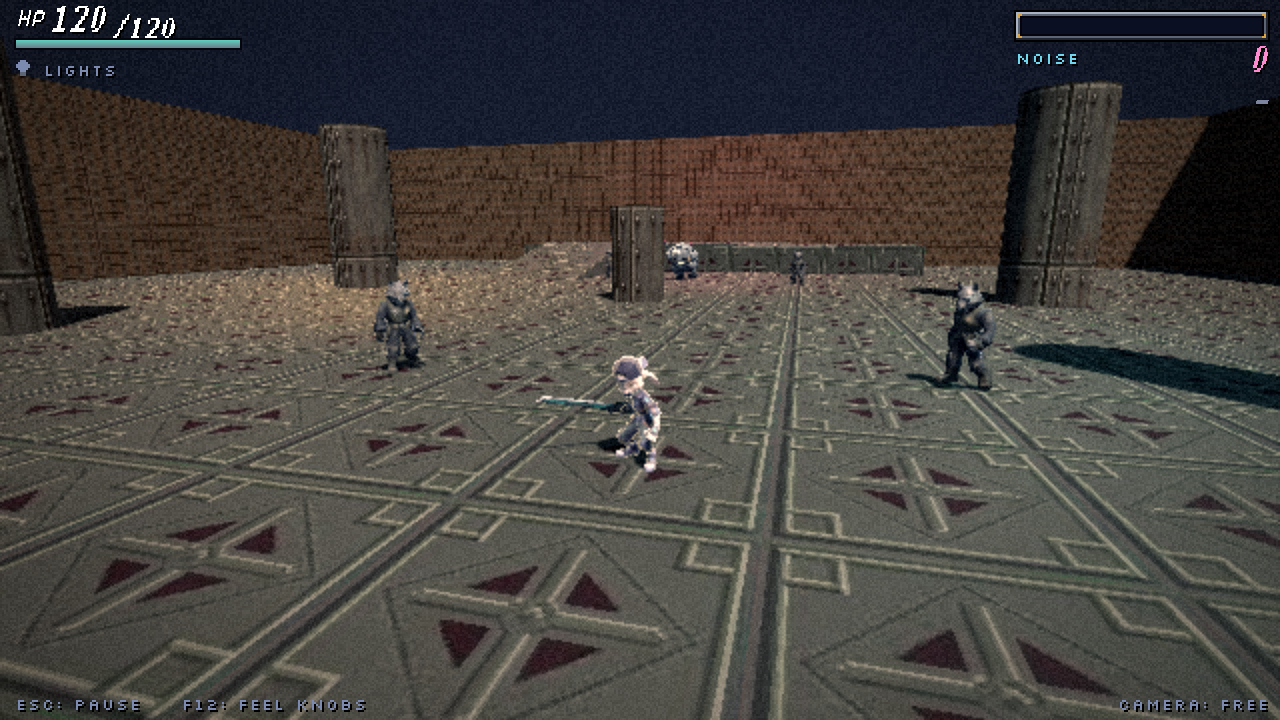
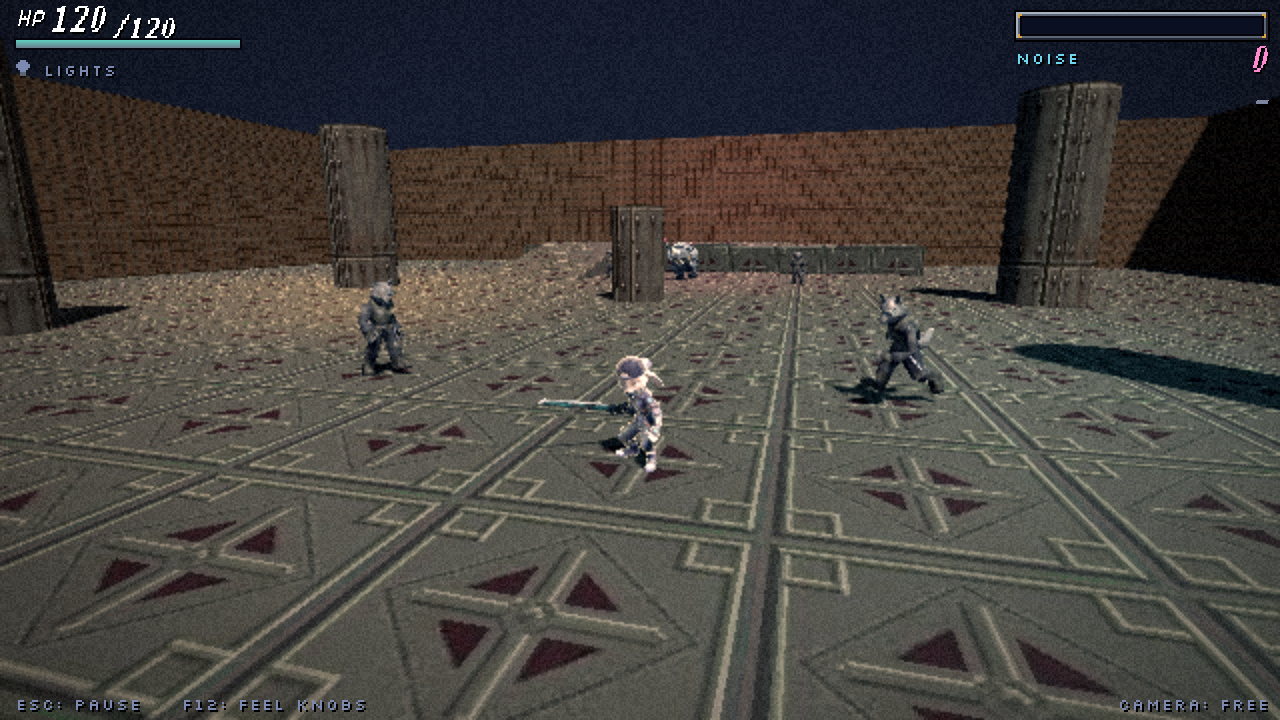
Ross: Kingdom Hearts combat feel; parry optional; logged.
Claude-Session: https://claude.ai/code/session_012jSmZ4BPCmd8jMXHsVXFG6

diff --git a/docs/ross_playbook.md b/docs/ross_playbook.md
@@ -405,3 +405,4 @@ Ross's words, verbatim where possible, newest at the bottom.
 | F85 | 2026-10-08 | Follow-up to F84, the same message or right after it. A direction statement; no prediction; nothing to score. | "This is now about a cyberpunk hacker bunny girl with a sword in a third person action RPG with cute towns ppl and we're still working on the gameplay loop but we need a solid action game so keep doing what you're doing and don't change anything yet just know that we're cutting the whole 'lights on' thing" · Chose: a new one-line identity for the game, and a hold on changes. What his words say: (1) the game is a cyberpunk hacker bunny girl with a sword, third-person action RPG, cute towns and people; (2) the gameplay loop is still being worked out; (3) he needs a solid action game; (4) keep going as is and change nothing yet; (5) the "lights on" thing is cut. What they do not say: what the hacker part does, how cute, whether the story survives, the new title, or when removal happens. Readings (mine, not his words): "hacker" is new to the record; "cute towns" softens the grim towns of F52 (open question, see Identity reset); this is his own framing for the first time, in his words, of the whole game. |
 | F86 | 2026-10-08 | **STUDIO FACT, NOT ROSS'S WORDS. Logged without his input at the lead's request.** Follows from his F71 order to use free prefab placeholder animations and make nothing new. No decision pending; nothing to score. | _(no Ross words)_ · Studio action: the free Quaternius animations (CC0, the library picked after F71, see R44) are now on Red, the wolf and the Brute. What this says: his "free, open source, placeholder" instruction (F71) has been carried out for three characters. What it does not say: that he has seen or approved how they look in motion. Treat as placeholder only; his own mocap offer (F69) stands for later. |
 | F87 | 2026-10-08 | R48: smooth (30 fps or more) or stepped (about 15 fps, poses held like old PS1 games) animation. Studio recommended smooth. | "smooth animation" · Chose: A, smooth. Scored a HIT in R48. What his words say: animation plays smooth, not stepped. What they do not say: why, whether it applies to every character and enemy, or the exact frame rate (the options said 30 fps or more). Reading (mine): this is "look, not limits" (F77) applied; stepped animation is a hardware limit, not the look he wants. |
+| F88 | 2026-10-09 | Unprompted steer on the combat system, about the sandbox feel (words relayed by the lead). No prediction was pending for the steer itself; R49, the button-layout decision it led to, is recorded below. | "keep the system more kingdom heartsy opposed to DmC Sekiro" · Chose: Kingdom Hearts as the combat target, and away from DmC and Sekiro. What his words say: (1) the system should be more Kingdom Hearts; (2) not DmC or Sekiro. What they do not say: which parts of KH (my reading, from the lead's brief, not his words: forgiving, floaty air combos, generous guard, strong targeting assist, flashy, accessible); how far to go; whether the dash, parry and juggle he asked for in F60 stay; whether the button layout changes. Reading (mine, one data point): "opposed to" means he judged the current tuning against DmC and Sekiro and found it too strict. Process note: the playtester and the design leaned toward tight, strict tuning, which is the opposite of what he wants. |

diff --git a/docs/decisions.md b/docs/decisions.md
@@ -5,6 +5,8 @@
 
 | Date | Decision | Options considered | Why |
 |---|---|---|---|
+| 2026-10-09 | **Combat feel: Kingdom Hearts, not DmC/Sekiro.** Ross: "keep the system more kingdom heartsy opposed to DmC Sekiro". Tuning moves toward forgiving, floaty air combos, generous guard and i-frames, strong targeting assist, less punishing and less evasive enemies (numbers at Level 1; tuning_log.md). Whether to switch to a KH-style single attack button is a separate decision sent to Ross. | (Ross's direction) | Accessible, flashy action over frame-strict action. |
+| 2026-10-09 | **Parry is optional.** Ross: "parry may be omitted if its not working". The parry timing bug is being fixed; if parry still doesn't feel right, it folds into a generous Kingdom Hearts-style guard (block from the front, counter on good timing) instead. | Keep and fix / drop / fold into a KH guard | Ross's call; fits the KH direction. |
 | 2026-10-08 | **Animations play smooth (not PS1-style stepped).** Ross: "smooth animation". The retargeted clips keep smooth playback (data/animation/import_look.json). | **A smooth** / B stepped ~15 fps | Look, not limits; fast action reads better. |
 | 2026-10-08 | **Game identity reset; "Lights On" cut.** Ross: the game "is now about a cyberpunk hacker bunny girl with a sword in a third person action RPG with cute towns ppl and we're still working on the gameplay loop but we need a solid action game so keep doing what you're doing and don't change anything yet just know that we're cutting the whole \"lights on\" thing". The working title LIGHTS ON and the Lights On mechanic/theme are dropped. **Nothing is ripped out of the build yet** (Ross: "don't change anything yet"). Open questions for later: what the Noise meter feeds instead of Lights On; whether the perfect-dodge slow-mo ("Lamp Flare") stays under a new name; the title; the tone shift toward cute towns and people. | (Ross's direction) | A solid action game first; theme and loop still being worked out. |
 | 2026-10-08 | **HUD feedback: slant on; no big yellow 3D words; sharp text.** Ross: "3D onscreen text in yellow is horribly ugly"; "The text is so low resolution, why so low? its hard to read"; "i guess the bottom one is more interesting" (the slanted lettering). Slant becomes the default; HUD and menu text render at full window resolution (only the 3D world is low-res); floating yellow words replaced by small crisp white callouts in a fixed HUD spot and small white damage numbers. | A upright / **B slant** (studio recommended upright) | Ross's taste; readability. |
